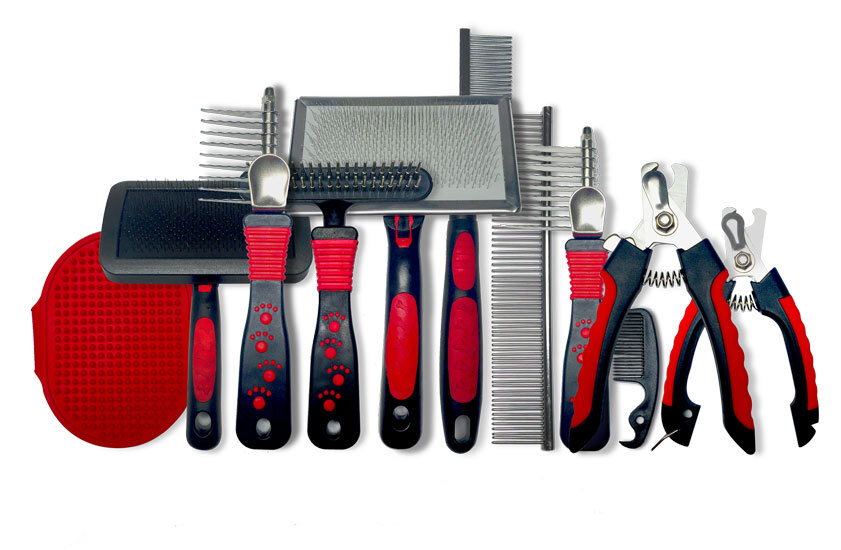
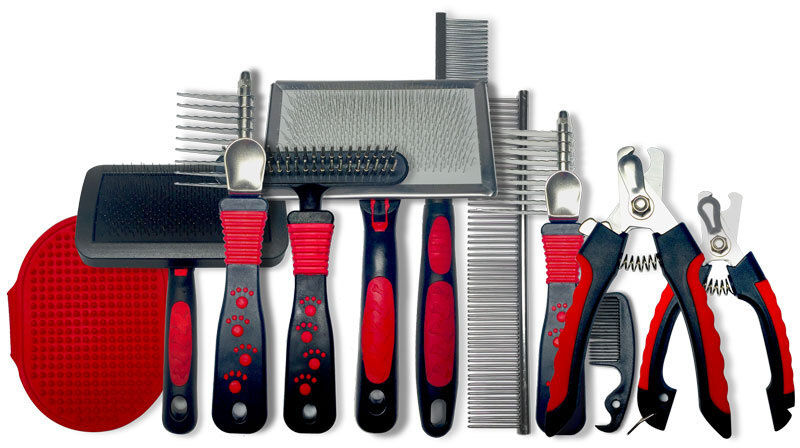
Removed extra margin in image

diff --git a/src/pages/certification-courses/grooming-technician/index.page.tsx b/src/pages/certification-courses/grooming-technician/index.page.tsx
@@ -36,7 +36,7 @@ type Props = {
   dgPrice: PriceResult;
 };
 
-const GroomingTechnicianPage: NextPageWithLayout<Props> = ({ location, gtPrice, dgPrice }) => {
+const GroomingTechnicianPage: NextPageWithLayout<Props> = ({ gtPrice, dgPrice }) => {
   const screenWidth = useScreenWidth();
   const [ kitPopupVisible, kitPopupToggle ] = useToggle();
 
@@ -127,14 +127,12 @@ const GroomingTechnicianPage: NextPageWithLayout<Props> = ({ location, gtPrice, 
           <div className="row justify-content-center">
             <div className="col-12 col-lg-10 mb-4">
               <h2 className="mb-2 mb-md-4">Included in <strong>Your Course</strong></h2>
-              <div style={{ marginBottom: '-3rem' }}>
-                <Image
-                  src={BeginnerKit}
-                  alt="professional dog-grooming kit"
-                  sizes="100vw"
-                  style={{ width: '100%', height: 'auto' }}
-                />
-              </div>
+              <Image
+                src={BeginnerKit}
+                alt="professional dog-grooming kit"
+                sizes="100vw"
+                style={{ width: '100%', height: 'auto' }}
+              />
               <div className="courseContentIcon"><BsScissors size={iconSize} /></div>
               <h3>Beginner Tool Kit</h3>
               <p>When you enroll, you'll receive a beginner toolkit to help you complete your studies. This bonus kit includes an assortment of brushes, combs and nail clippers to get you started.</p>
@@ -160,14 +158,12 @@ const GroomingTechnicianPage: NextPageWithLayout<Props> = ({ location, gtPrice, 
         <Modal show={kitPopupVisible} onHide={kitPopupToggle}>
           <Modal.Header closeButton>Grooming Tools Starter Kit</Modal.Header>
           <Modal.Body>
-            <div style={{ marginBottom: '-1rem' }}>
-              <Image
-                src={BeginnerKit}
-                alt="grooming kit details"
-                sizes="100vw"
-                style={{ width: '100%', height: 'auto' }}
-              />
-            </div>
+            <Image
+              src={BeginnerKit}
+              alt="grooming kit details"
+              sizes="100vw"
+              style={{ width: '100%', height: 'auto' }}
+            />
             <ul style={{ width: 300, marginLeft: 'auto', marginRight: 'auto' }}>
               <li>2 Slicker Brushes (soft and hard)</li>
               <li>2 Nail Clippers (large and small)</li>
